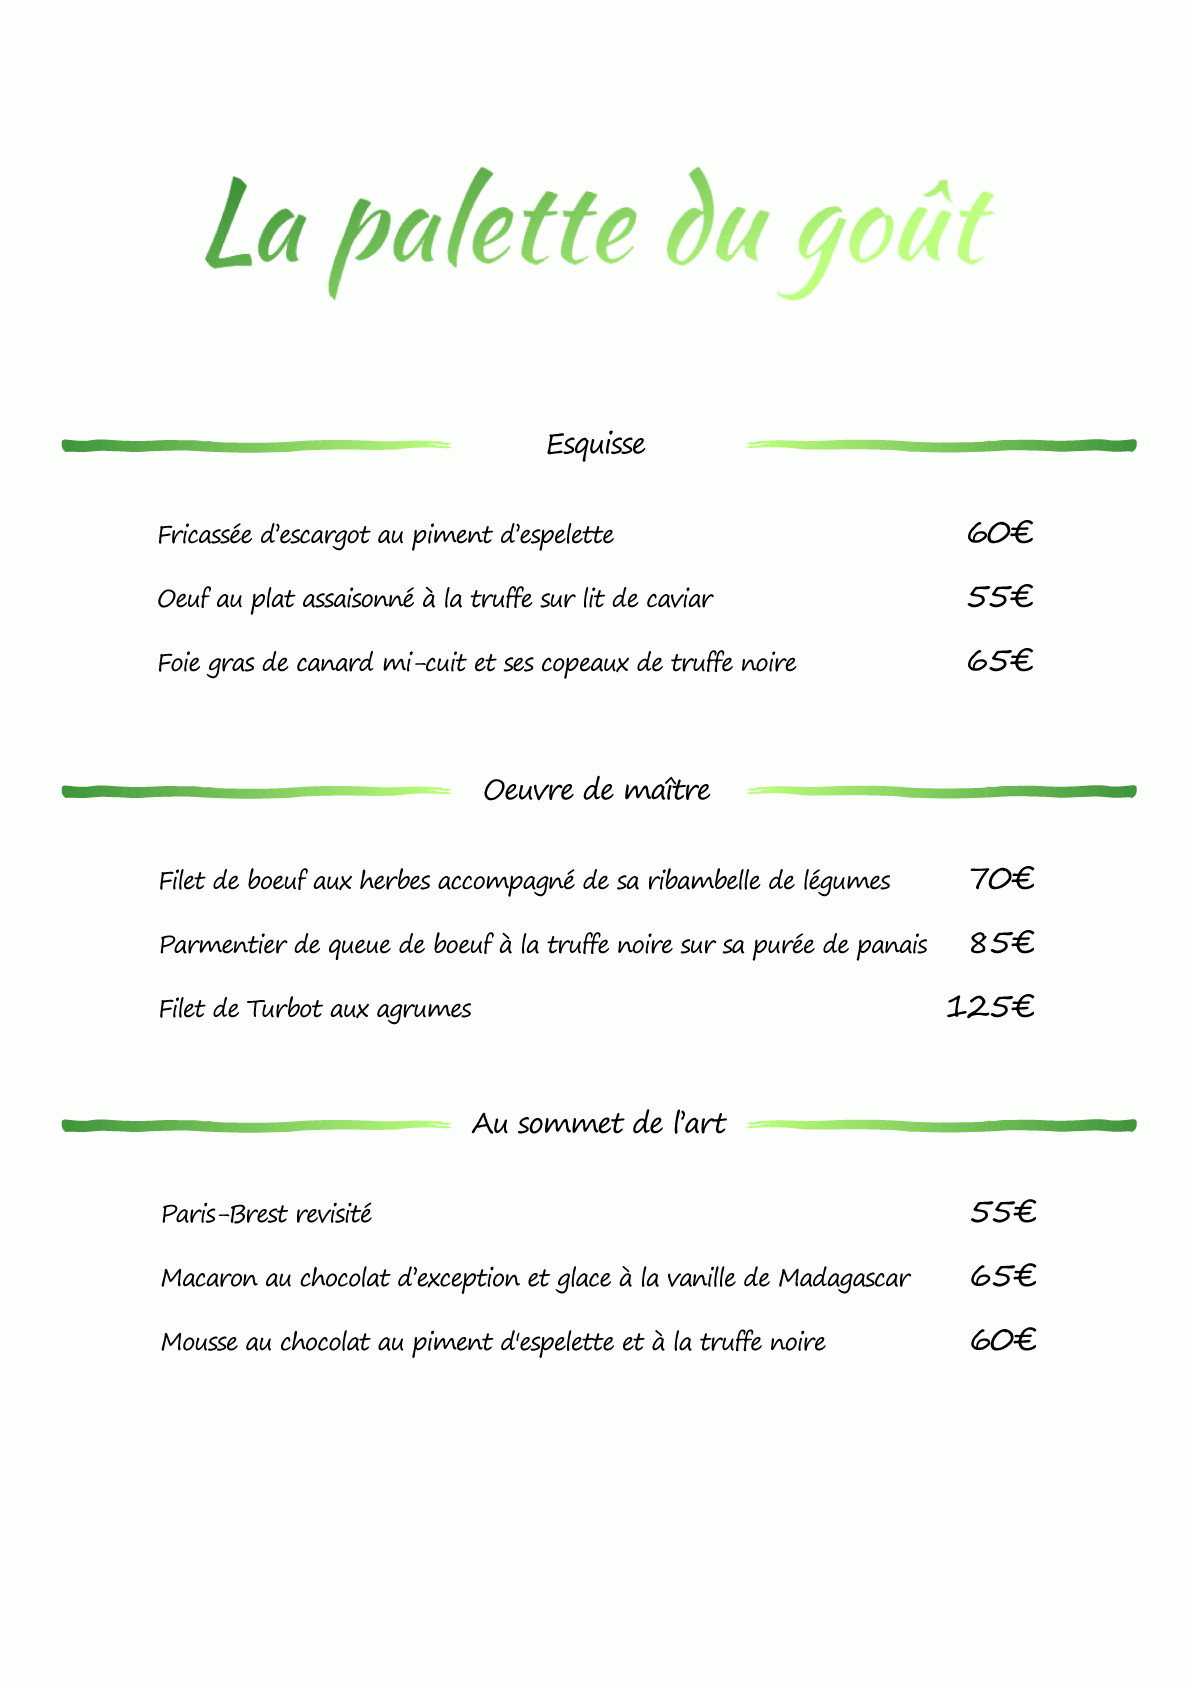
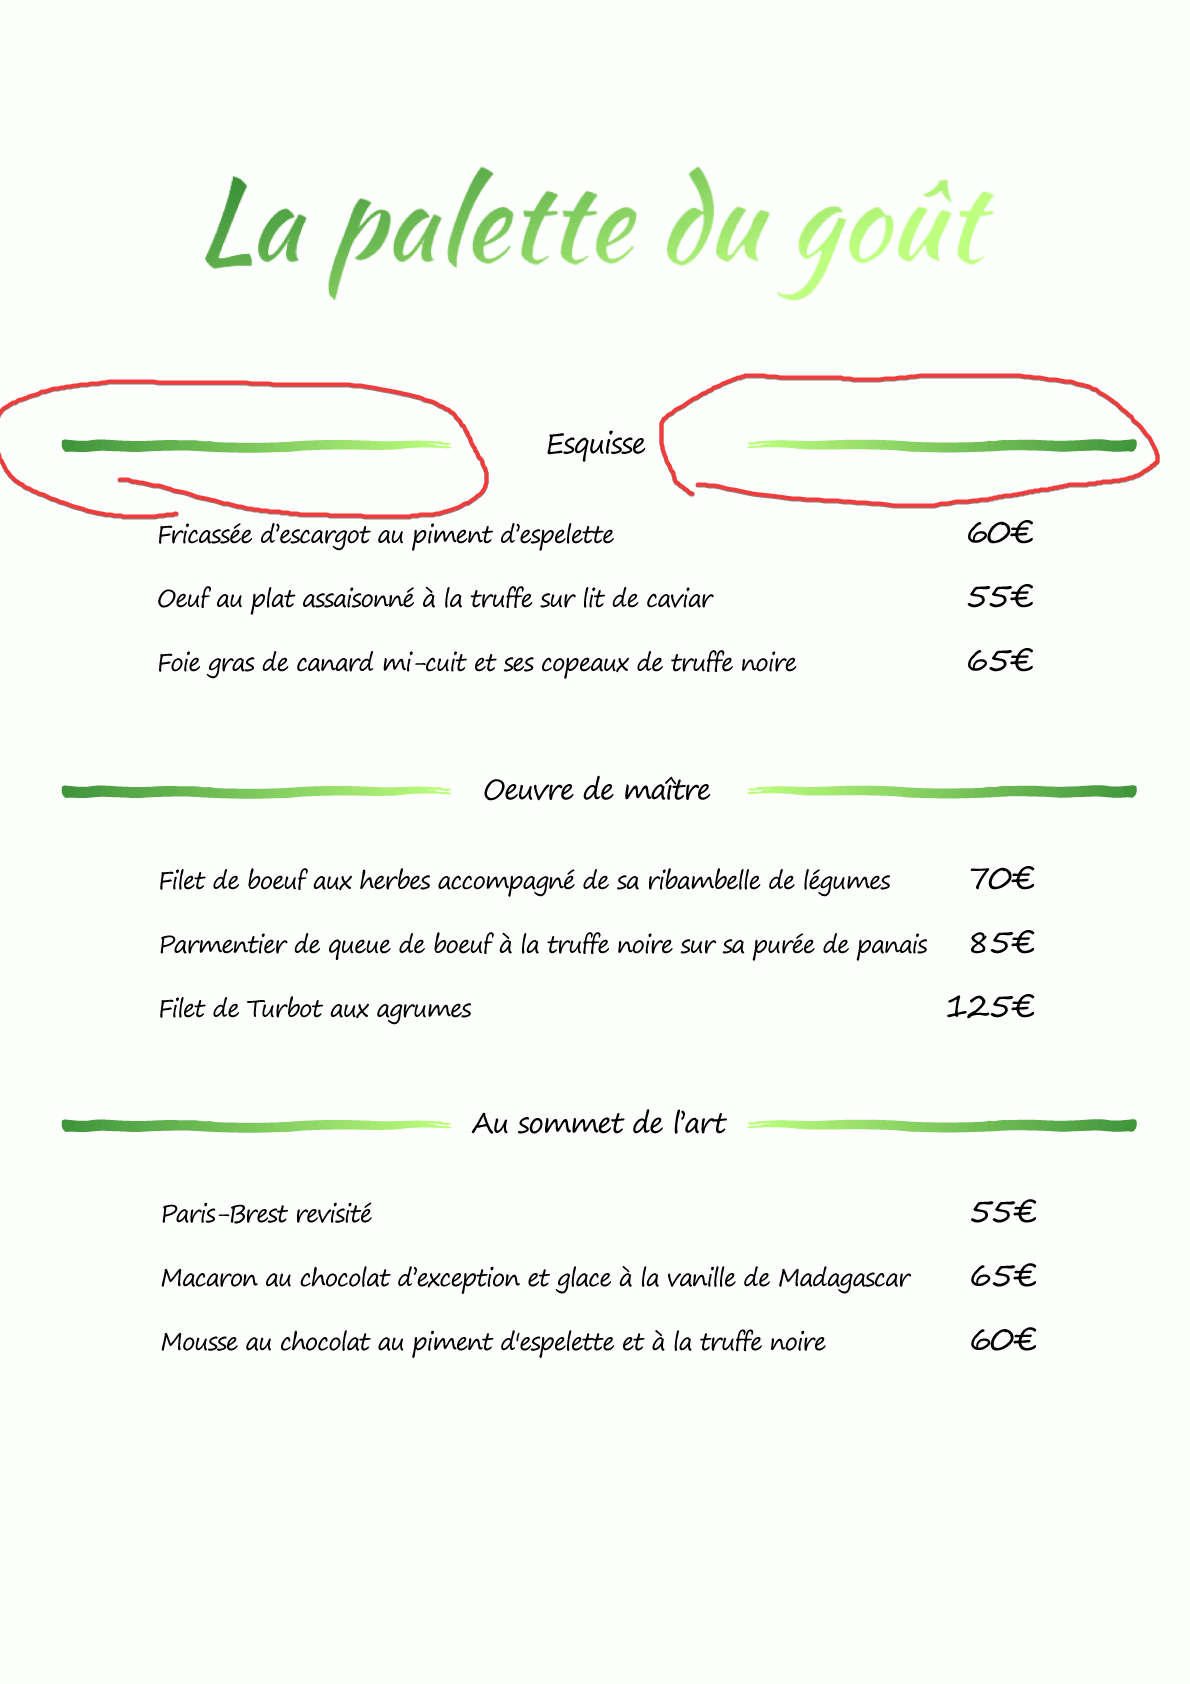
responsive width 950 px / barres désactivés

diff --git a/html/css/responsive.css b/html/css/responsive.css
@@ -6,11 +6,12 @@
 
 @media screen and (max-width: 950px){ 
 
-    .flex_menu1, .flex_menu2{
+/* INDEX */
+    .flex_menu1, .flex_menu2, .page_lanote_menu{
         flex-direction: column;
         align-items: center;
         margin-left: 12px;
-    }
+}
 
     .menu_lechic{
         position: relative;
@@ -31,6 +32,20 @@
     .texte_footer{
         font-size: 18px;
     }
+/* end INDEX */
+
+/* MENUS */
+    #bloc_page_lanote, #bloc_page_lechic, #bloc_page_lapalette, #bloc_page_ledelice{
+        width: 550px;
+    }
+
+    #bloc_page_lanote p, #bloc_page_lechic p, #bloc_page_lapalette p, #bloc_page_ledelice p{
+        font-size: 13px;    
 }
+/* end MENUS */
+/* MENTIONS */
+    .mention1 p, .mention2 p, .mention3 p, .mention4 p, ul{
+        font-size: 13px;
+    }
 
 /* end Ecran ayant une largeur maximum de 950px */

diff --git a/html/css/ledelice.css b/html/css/ledelice.css
@@ -45,9 +45,9 @@
 
 
 
-/* BARRES */
+/* BARRES 
 
-/* BIEN COMMENCER */
+ BIEN COMMENCER 
 .page_ledelice_titre_menu1{
     position:relative;
 }
@@ -70,9 +70,9 @@
     border-bottom:5px ridge #0228DD;
     width:250px;
 }
-/* end BIEN COMMENCER */
+ end BIEN COMMENCER 
 
-/* BIEN CONTINUER */
+ BIEN CONTINUER 
 .page_ledelice_titre_menu2{
     position:relative;
 }
@@ -95,9 +95,9 @@
     border-bottom:5px ridge #0670F3;
     width:250px;
 }
-/* end BIEN CONTINUER */
+ end BIEN CONTINUER 
 
-/* BIEN TERMINER */
+ BIEN TERMINER 
 .page_ledelice_titre_menu3{
     position:relative;
 }
@@ -119,6 +119,6 @@
     border-bottom:5px ridge #229DF9;
     width:250px;
 }
-/* end BIEN TERMINER */
+ end BIEN TERMINER 
 
-/* end BARRES */
+ end BARRES */

diff --git a/html/css/lechic.css b/html/css/lechic.css
@@ -89,10 +89,9 @@
 /* ##### end MENU ##### */
 
 
+/* BARRES 
 
-/* BARRES */
-
-/* EN APPETIT */
+ EN APPETIT 
 .titre_en_appetit{
     position:relative;
 }
@@ -115,9 +114,9 @@
     border-bottom:5px ridge #C77412;
     width:250px;
 }
-/* end EN APPETIT */
+ end EN APPETIT 
 
-/* PLAISIR PAPILLES */
+ PLAISIR PAPILLES 
 .titre_papilles{
     position:relative;
 }
@@ -140,9 +139,9 @@
     border-bottom:5px ridge #A56799;
     width:250px;
 }
-/* end PLAISIR PAPILLES */
+ end PLAISIR PAPILLES 
 
-/* GOURMANDISES */
+ GOURMANDISES 
 .titre_gourmandises{
     position:relative;
 }
@@ -165,8 +164,8 @@
     border-bottom:5px ridge #6E4CCC;
     width:250px;
 }
-/* end GOURMANDISES */
+ end GOURMANDISES 
 
-/* end BARRES */
+ end BARRES */
 
 

diff --git a/html/css/lapalette.css b/html/css/lapalette.css
@@ -68,9 +68,9 @@
 
 
 
-/* BARRES */
+/* BARRES 
 
-/* ESQUISSE */
+ ESQUISSE 
 .page_lapalette_titre_menu1{
     position:relative;
 }
@@ -92,9 +92,9 @@
     border-bottom:5px ridge #5EAE4B;
     width:280px;
 }
-/* end ESQUISSE */
+ end ESQUISSE 
 
-/* OEUVRE */
+ OEUVRE 
 .page_lapalette_titre_menu2{
     position:relative;
 }
@@ -117,9 +117,9 @@
     border-bottom:5px ridge #5EAE4B;
     width:280px;
 }
-/* end OEUVRE */
+ end OEUVRE 
 
-/* AU SOMMET */
+ AU SOMMET 
 .page_lapalette_titre_menu3{
     position:relative;
 }
@@ -141,6 +141,6 @@
     border-bottom:5px ridge #5EAE4B;
     width:280px;
 }
-/* end AU SOMMET */
+ end AU SOMMET 
 
-/* end BARRES */
+ end BARRES */

diff --git a/html/css/lanote.css b/html/css/lanote.css
@@ -75,9 +75,9 @@
 
 
 
-/* BARRES */
+/* BARRES 
 
-/* PRELUDE */
+ PRELUDE 
 .page_lanote_titre_menu1{
     position:relative;
 }
@@ -100,9 +100,9 @@
     border-bottom:5px ridge #3C1218;
     width:170px;
 }
-/* end PRELUDE */
+ end PRELUDE 
 
-/* POINT ORGUE */
+ POINT ORGUE 
 .page_lanote_titre_menu2{
     position:relative;
 }
@@ -125,9 +125,9 @@
     border-bottom:5px ridge #3C1218;
     width:170px;
 }
-/* end POINT ORGUE */
+ end POINT ORGUE 
 
-/* MOUVEMENT FINAL */
+ MOUVEMENT FINAL 
 .page_lanote_titre_menu3{
     position:relative;
 }
@@ -150,4 +150,4 @@
     border-bottom:5px ridge #3C1218;
     width:170px;
 }
-/* end MOUVEMENT FINAL */
+ end MOUVEMENT FINAL */

diff --git a/html/css/header.css b/html/css/header.css
@@ -4,7 +4,7 @@
 
 .header_infos{
     background-color: #579C87;
-    width: 100%;
+    width: auto;
     margin: 0;
     padding: 0;
 }
